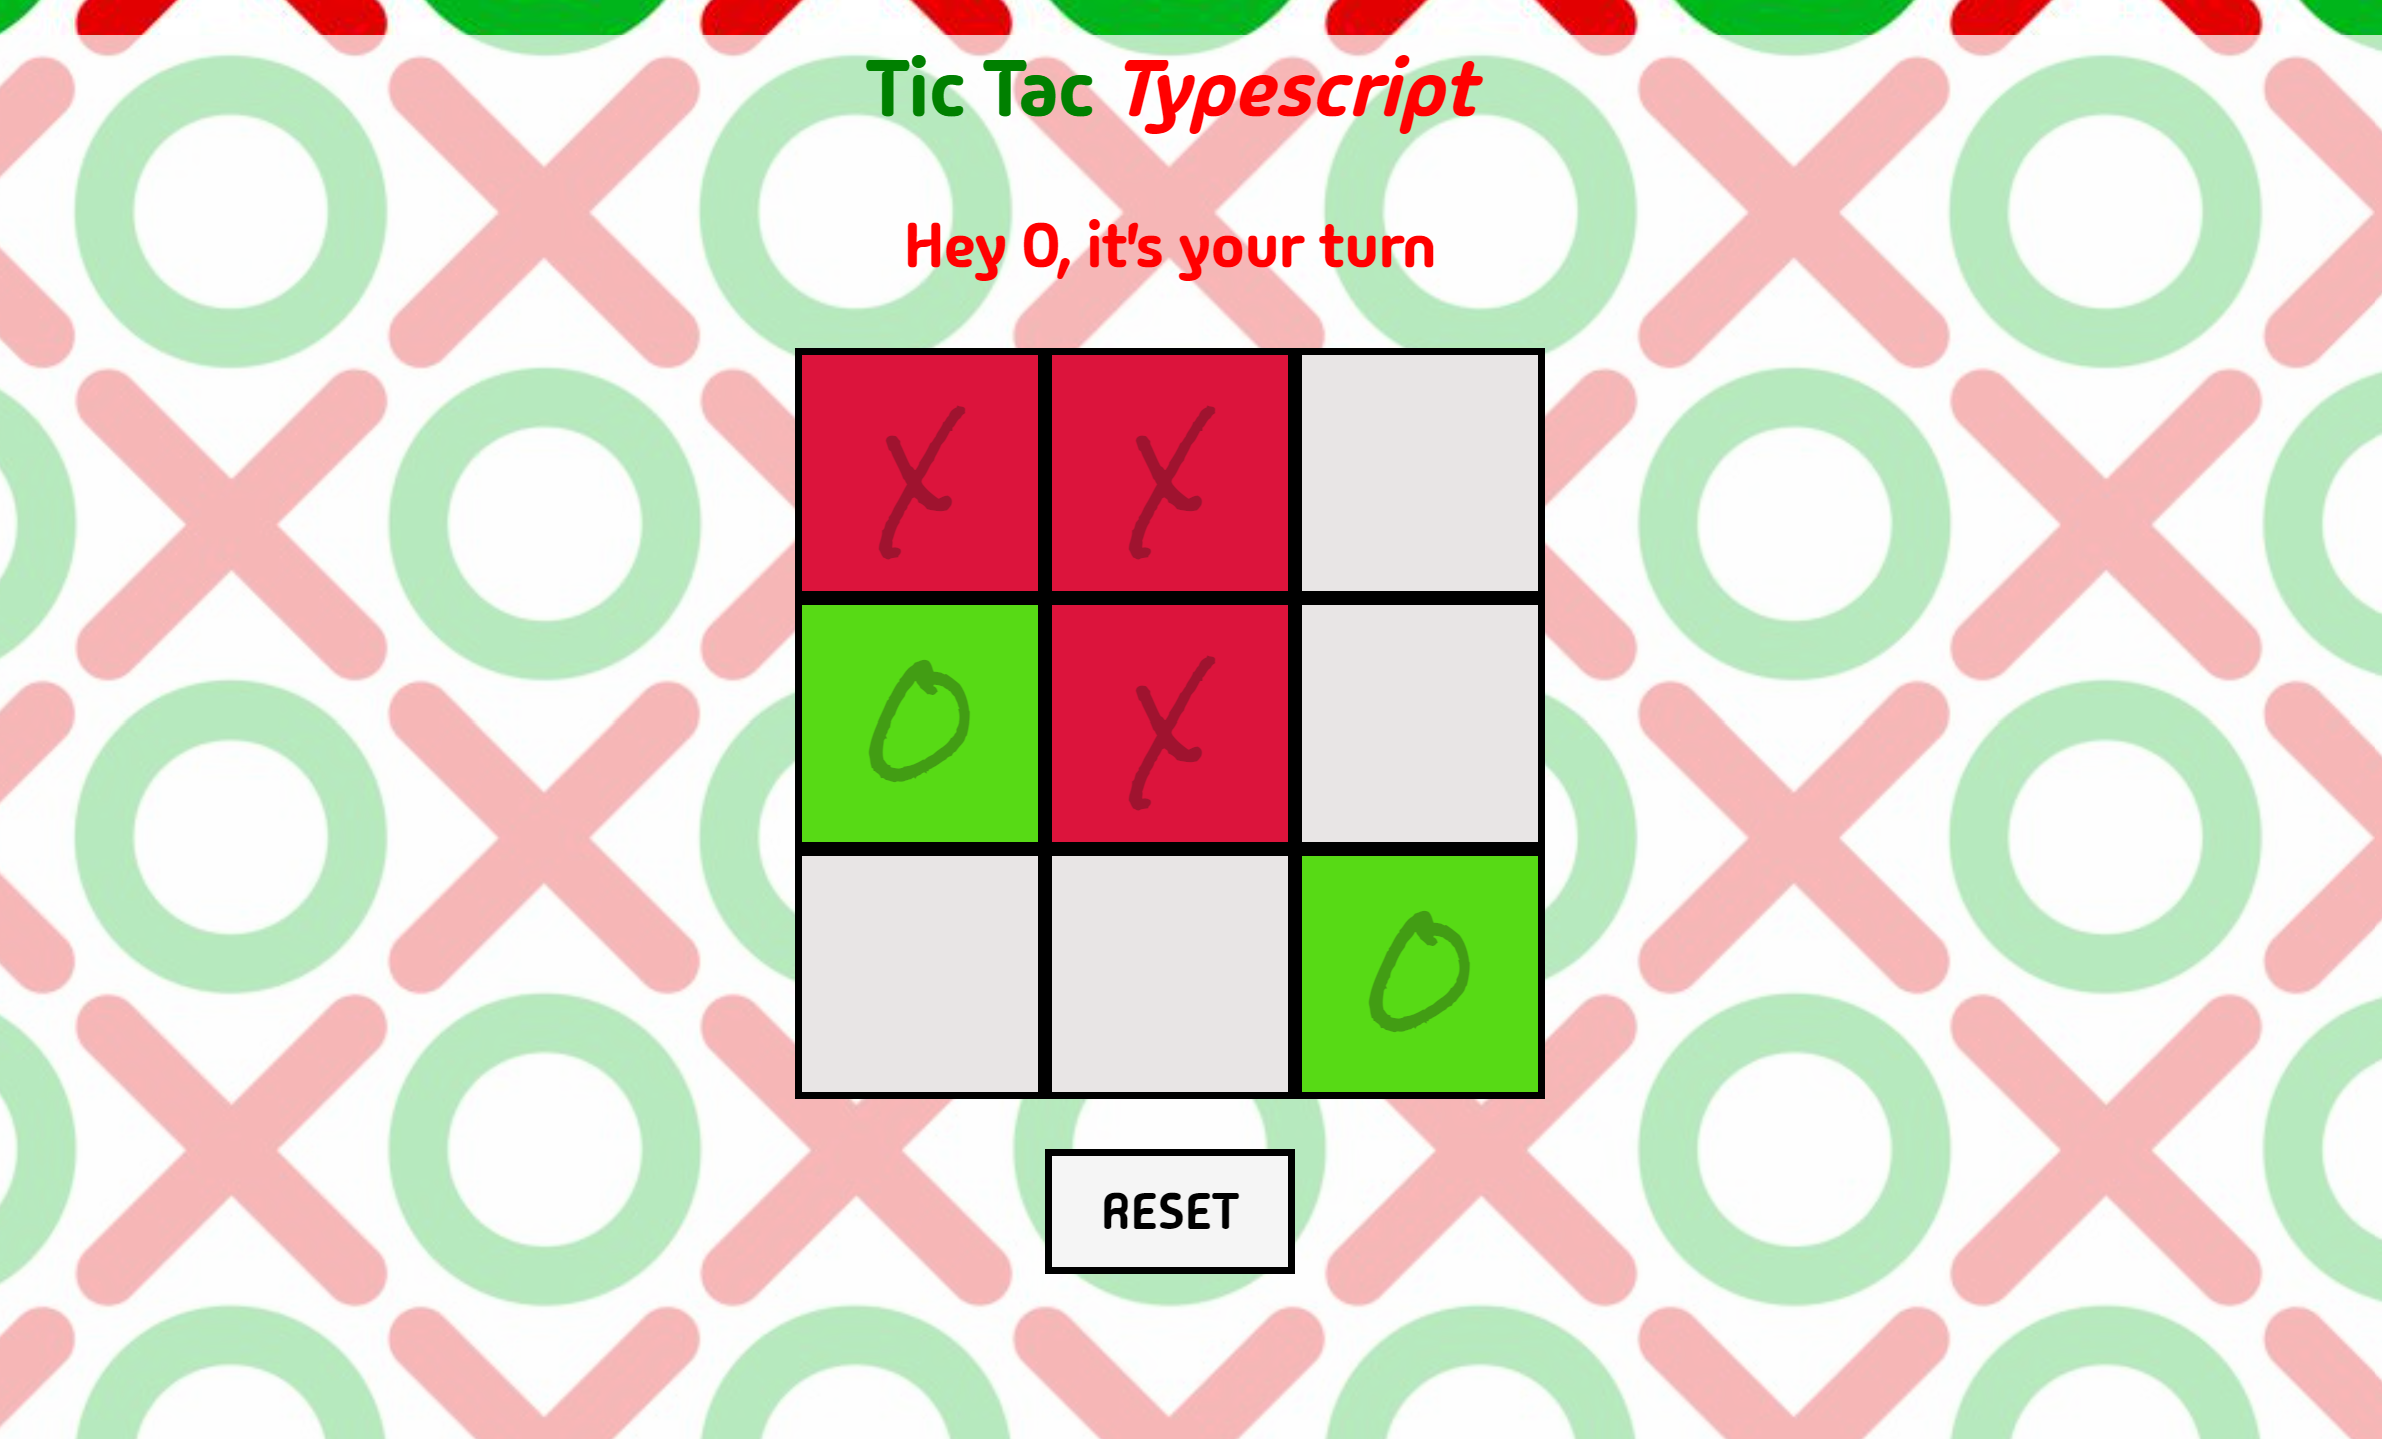
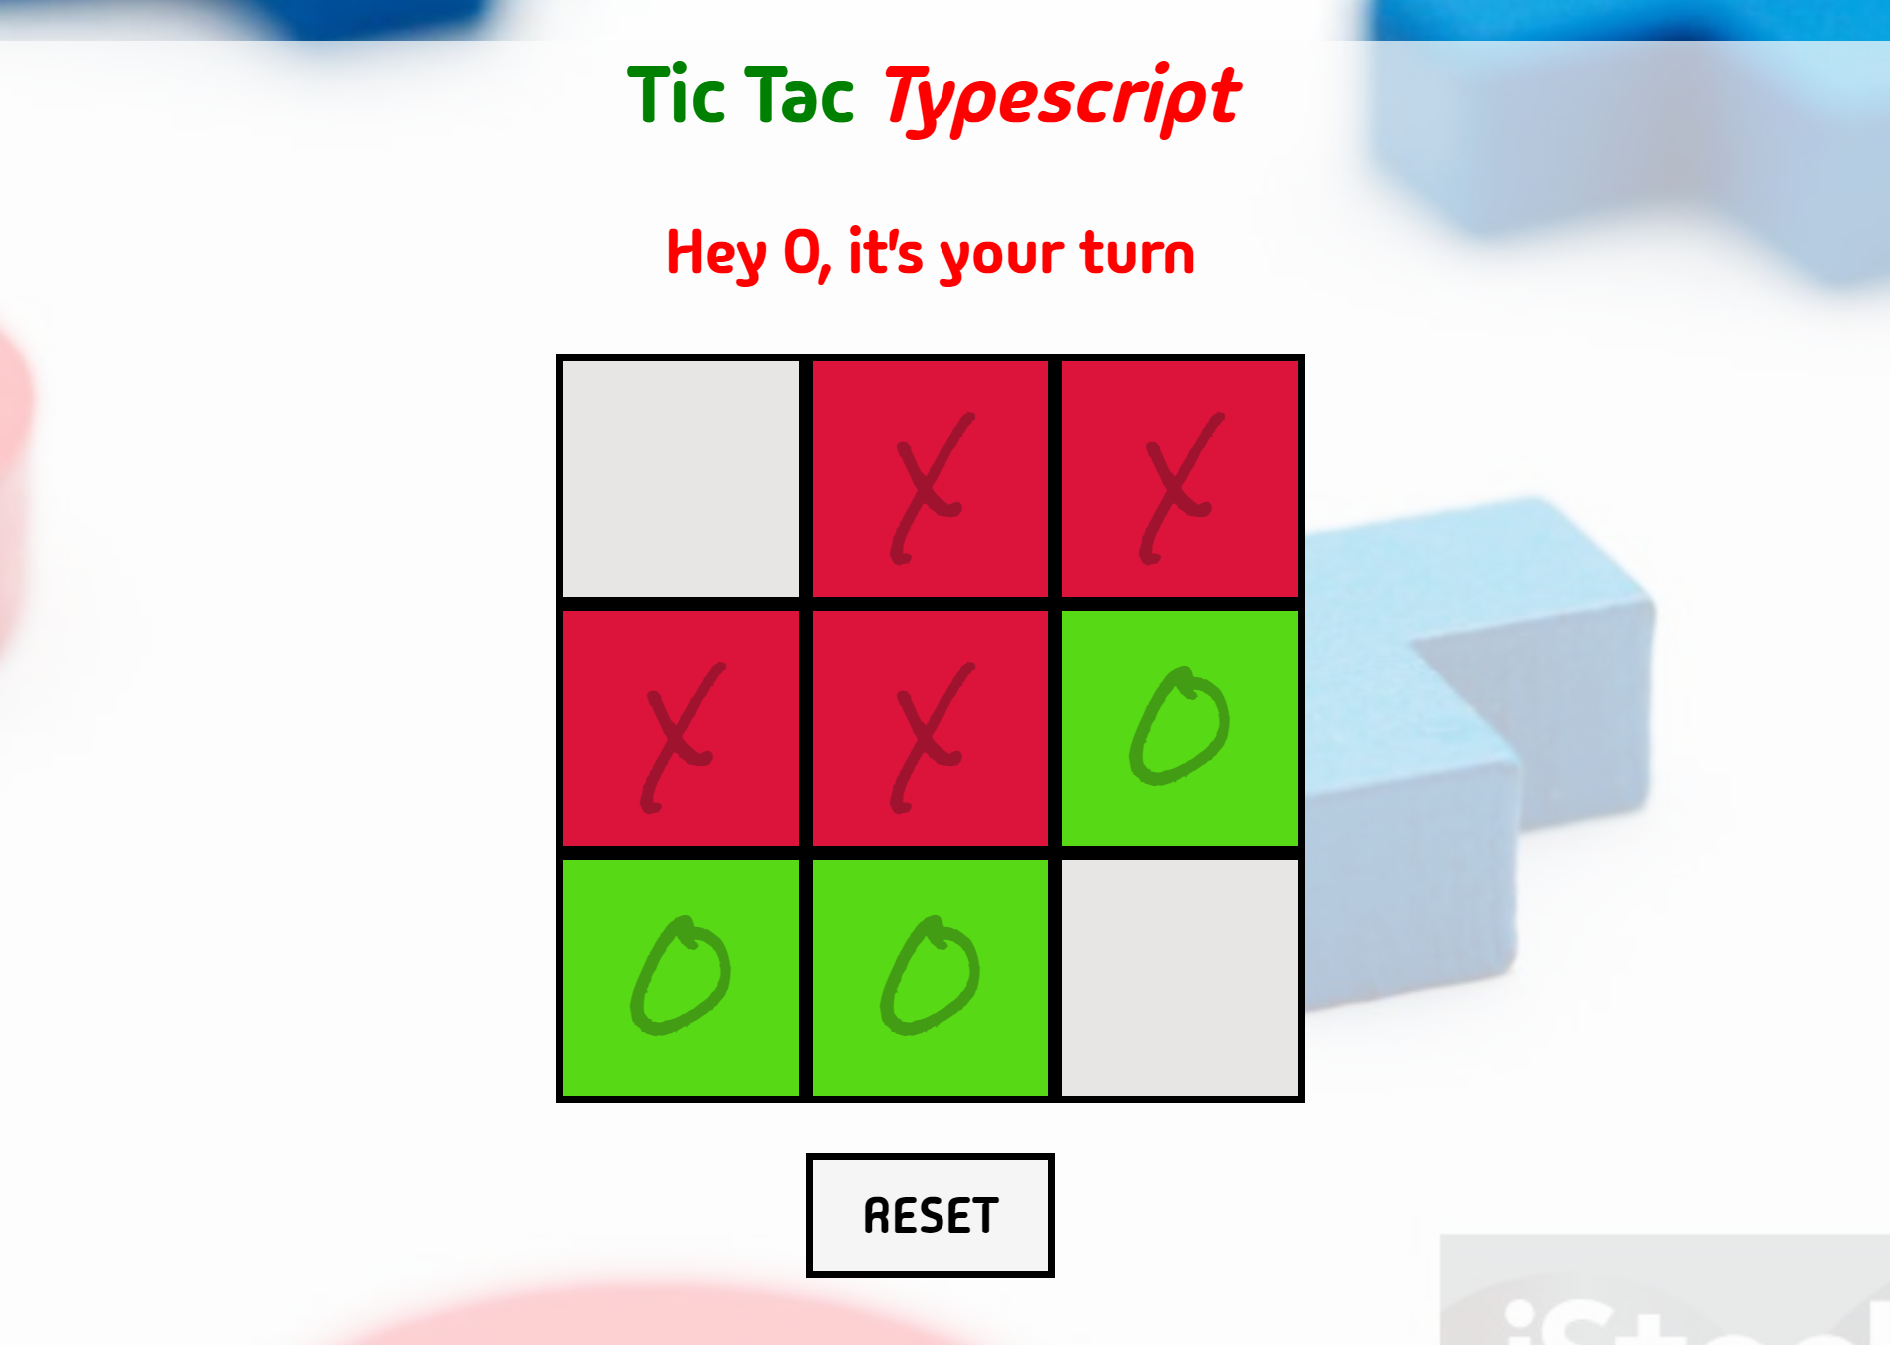
updated ReadMe screenshots for background change

diff --git a/README.md b/README.md
@@ -42,11 +42,17 @@ _The result?_ A fun and functional game that solidified my understanding of Type
 
 ![screenshot](./assets/tictactoe-screenshot.png)
 
+![screenshot-win](./assets/tictactoe-screenshot-winner.png)
+
 ## Credits
 
-Built From:
+Reference Video:
 
 ##### [TomDoesTech](https://www.youtube.com/watch?v=7iw8j20h4pc&list=PL41PQx5PPbt6OheJQkg-QNROfx9j75MuR&index=8)
+
+Wallpaper Credit:
+
+##### [Unsplash](https://media.istockphoto.com/id/1515270520/photo/wooden-tic-tac-toe-game.jpg?s=2048x2048&w=is&k=20&c=gQCijlgJqbY-90frYIQH1XGcWs5RkserKQQ92XIRnSM=)
 
 ---
 
